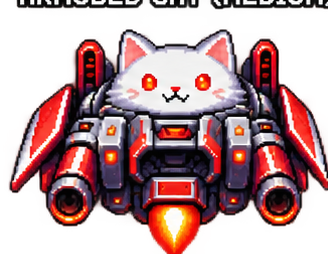
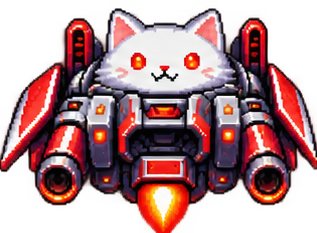
Enhance gameplay with power-ups, giant boss mechanics, and improved shooting logic; remove unused background image.

diff --git a/CatShooters/Form1.cs b/CatShooters/Form1.cs
@@ -9,16 +9,17 @@ namespace CatShooters
 {
     public partial class Form1 : Form
     {
-        // ==================== game Settings ====================
+        // ==================== GAME SETTINGS ====================
         int gameWidth = 450;
         int gameHeight = 700;
         Timer gameTimer = new Timer();
         Random random = new Random();
 
+        // ==================== GAME SCREENS ====================
         enum GameScreen { Menu, Playing, HighScores, GameOver }
         GameScreen currentScreen = GameScreen.Menu;
 
-        // ==================== player and enemy ====================
+        // ==================== PLAYER AND GAME OBJECTS ====================
         HashSet<Keys> pressedKeys = new HashSet<Keys>();
         List<Enemy> enemies = new List<Enemy>();
         List<Bullet> bullets = new List<Bullet>();
@@ -34,6 +35,18 @@ namespace CatShooters
         int shootCooldown = 0;
         int invincibleFrames = 0;
         bool gameOver = false;
+
+        // ==================== POWER-UPS ====================
+        List<PowerUp> powerUps = new List<PowerUp>();
+        int rapidFireFrames = 0;
+        int doubleShotFrames = 0;
+        int shieldFrames = 0;
+
+        // ==================== GIANT BOSS ====================
+        bool bossAppeared = false;
+        GiantBoss boss = null;
+        List<BossBullet> bossBullets = new List<BossBullet>();
+
 
         // ==================== LEADERBOARD DATA ====================
         List<ScoreEntry> highScores = new List<ScoreEntry>();
@@ -131,13 +144,22 @@ namespace CatShooters
             frame++;
             if (shootCooldown > 0) shootCooldown--;
             if (invincibleFrames > 0) invincibleFrames--;
+            if (rapidFireFrames > 0) rapidFireFrames--;
+            if (doubleShotFrames > 0) doubleShotFrames--;
+            if (shieldFrames > 0) shieldFrames--;
 
             MovePlayer();
             Shoot();
+            SpawnGiantBoss();
             SpawnEnemies();
             MoveBullets();
             MoveEnemies();
+            MoveBoss();
+            MoveBossBullets();
+            MovePowerUps();
             CheckCollisions();
+            CheckBossCollisions();
+            CheckPowerUpCollisions();
 
             if (gameOver)
             {
@@ -165,16 +187,26 @@ namespace CatShooters
         // ==================== PLAYER SHOOTING ====================
         private void Shoot()
         {
-            if (pressedKeys.Contains(Keys.Space) && shootCooldown == 0)
+            if (shootCooldown == 0)
             {
-                bullets.Add(new Bullet(playerX + 29, playerY - 12));
-                shootCooldown = 12;
+                if (doubleShotFrames > 0)
+                {
+                    bullets.Add(new Bullet(playerX + 12, playerY - 12));
+                    bullets.Add(new Bullet(playerX + 46, playerY - 12));
+                }
+                else
+                {
+                    bullets.Add(new Bullet(playerX + 29, playerY - 12));
+                }
+
+                shootCooldown = rapidFireFrames > 0 ? 5 : 12;
             }
         }
 
         // ==================== ENEMY SPAWNING ====================
         private void SpawnEnemies()
         {
+            if (boss != null) return; // Focus on the boss fight.
             int spawnRate = Math.Max(20, 48 - score / 150);
             if (frame % spawnRate != 0) return;
 
@@ -237,6 +269,10 @@ namespace CatShooters
                         if (enemy.Health <= 0)
                         {
                             score += enemy.Type == 3 ? 100 : (enemy.Type + 1) * 10;
+                            // Every defeated cat has a chance to drop a power-up.
+                            if (random.Next(100) < 18)
+                                powerUps.Add(new PowerUp(enemy.X + enemy.Size / 2f,
+                                    enemy.Y + enemy.Size / 2f, random.Next(4)));
                             enemies.RemoveAt(i);
                             defeated = true;
                         }
@@ -245,7 +281,8 @@ namespace CatShooters
                 }
                 if (defeated) continue;
 
-                if (invincibleFrames == 0 && enemyBox.IntersectsWith(playerBox))
+                if (invincibleFrames == 0 && shieldFrames == 0 &&
+                    enemyBox.IntersectsWith(playerBox))
                 {
                     enemies.RemoveAt(i);
                     lives--;
@@ -260,6 +297,13 @@ namespace CatShooters
         {
             enemies.Clear();
             bullets.Clear();
+            powerUps.Clear();
+            bossBullets.Clear();
+            boss = null;
+            bossAppeared = false;
+            rapidFireFrames = 0;
+            doubleShotFrames = 0;
+            shieldFrames = 0;
             pressedKeys.Clear();
             playerX = (gameWidth - 64) / 2f;
             playerY = gameHeight - 110;
@@ -279,6 +323,136 @@ namespace CatShooters
             pressedKeys.Clear();
             currentScreen = GameScreen.Menu;
             Invalidate();
+        }
+
+        // ==================== POWER-UPS: SPAWN AND MOVEMENT ====================
+        // Drops: 0 = rapid fire, 1 = double shot, 2 = shield, 3 = extra life.
+        private void MovePowerUps()
+        {
+            for (int i = powerUps.Count - 1; i >= 0; i--)
+            {
+                powerUps[i].Y += 2.5f;
+                if (powerUps[i].Y > gameHeight)
+                    powerUps.RemoveAt(i);
+            }
+        }
+
+        // ==================== POWER-UPS: PICKUP EFFECTS ====================
+        private void CheckPowerUpCollisions()
+        {
+            RectangleF playerBox = new RectangleF(playerX + 8, playerY + 8, 48, 48);
+            for (int i = powerUps.Count - 1; i >= 0; i--)
+            {
+                PowerUp item = powerUps[i];
+                RectangleF itemBox = new RectangleF(item.X - 14, item.Y - 14, 28, 28);
+                if (!playerBox.IntersectsWith(itemBox)) continue;
+
+                if (item.Type == 0) rapidFireFrames = 600;       // ~10 seconds
+                if (item.Type == 1) doubleShotFrames = 600;      // ~10 seconds
+                if (item.Type == 2) shieldFrames = 600;          // ~10 seconds
+                if (item.Type == 3) lives = Math.Min(5, lives + 1);
+                powerUps.RemoveAt(i);
+            }
+        }
+
+        // ==================== GIANT BOSS: SPAWNING ====================
+        // First boss appears at 500 points, once per game.
+        private void SpawnGiantBoss()
+        {
+            if (!bossAppeared && score >= 500)
+            {
+                bossAppeared = true;
+                enemies.Clear();
+                bossBullets.Clear();
+                boss = new GiantBoss(15, 80, gameWidth - 30, 250, 100);
+            }
+        }
+
+        // ==================== GIANT BOSS: MOVEMENT AND ATTACKS ====================
+        private void MoveBoss()
+        {
+            if (boss == null) return;
+
+            // Boss enters from the top and then slides side to side.
+            if (boss.Y < 55)
+                boss.Y += 1.5f;
+            else
+            {
+                boss.X += boss.Direction * 1.1f;
+                if (boss.X < 0 || boss.X + boss.Width > gameWidth)
+                    boss.Direction *= -1;
+            }
+
+            // Shoots three slow projectiles toward the bottom.
+            if (frame % 48 == 0 && boss.Y >= 45)
+            {
+                float center = boss.X + boss.Width / 2f;
+                bossBullets.Add(new BossBullet(center - 8, boss.Y + boss.Height, -2));
+                bossBullets.Add(new BossBullet(center - 8, boss.Y + boss.Height, 0));
+                bossBullets.Add(new BossBullet(center - 8, boss.Y + boss.Height, 2));
+            }
+        }
+
+        // ==================== GIANT BOSS: PROJECTILE MOVEMENT ====================
+        private void MoveBossBullets()
+        {
+            for (int i = bossBullets.Count - 1; i >= 0; i--)
+            {
+                BossBullet shot = bossBullets[i];
+                shot.X += shot.SpeedX;
+                shot.Y += 4;
+                if (shot.Y > gameHeight || shot.X < -30 || shot.X > gameWidth + 30)
+                    bossBullets.RemoveAt(i);
+            }
+        }
+
+        // ==================== GIANT BOSS: COLLISIONS ====================
+        private void CheckBossCollisions()
+        {
+            RectangleF playerBox = new RectangleF(playerX + 12, playerY + 12, 40, 40);
+
+            if (boss != null)
+            {
+                RectangleF bossBox = new RectangleF(
+                    boss.X + 12, boss.Y + 12, boss.Width - 24, boss.Height - 24);
+
+                for (int i = bullets.Count - 1; i >= 0; i--)
+                {
+                    RectangleF shotBox = new RectangleF(bullets[i].X, bullets[i].Y, 7, 22);
+                    if (!shotBox.IntersectsWith(bossBox)) continue;
+                    bullets.RemoveAt(i);
+                    boss.Health--;
+                    if (boss.Health <= 0)
+                    {
+                        score += 1000;
+                        boss = null;
+                        bossBullets.Clear();
+                        break;
+                    }
+                }
+
+                if (boss != null && shieldFrames == 0 && invincibleFrames == 0 &&
+                    playerBox.IntersectsWith(bossBox))
+                {
+                    lives--;
+                    invincibleFrames = 90;
+                    if (lives <= 0) gameOver = true;
+                }
+            }
+
+            for (int i = bossBullets.Count - 1; i >= 0; i--)
+            {
+                BossBullet shot = bossBullets[i];
+                RectangleF shotBox = new RectangleF(shot.X, shot.Y, 16, 16);
+                if (!shotBox.IntersectsWith(playerBox)) continue;
+                bossBullets.RemoveAt(i);
+                if (shieldFrames == 0 && invincibleFrames == 0)
+                {
+                    lives--;
+                    invincibleFrames = 90;
+                    if (lives <= 0) gameOver = true;
+                }
+            }
         }
 
         // ==================== LEADERBOARD: LOAD SCORES ====================
@@ -374,6 +548,40 @@ namespace CatShooters
 
             foreach (Enemy enemy in enemies)
                 g.DrawImage(catImages[enemy.Type], enemy.X, enemy.Y, enemy.Size, enemy.Size);
+
+            // ==================== POWER-UPS ====================
+            using (Font itemFont = new Font("Segoe UI", 11, FontStyle.Bold))
+            {
+                foreach (PowerUp item in powerUps)
+                {
+                    Brush color = item.Type == 0 ? Brushes.Orange :
+                        item.Type == 1 ? Brushes.Cyan :
+                        item.Type == 2 ? Brushes.Lime : Brushes.HotPink;
+                    string letter = item.Type == 0 ? "R" :
+                        item.Type == 1 ? "D" : item.Type == 2 ? "S" : "+";
+                    g.FillEllipse(color, item.X - 16, item.Y - 16, 32, 32);
+                    g.DrawEllipse(Pens.White, item.X - 16, item.Y - 16, 32, 32);
+                    g.DrawString(letter, itemFont, Brushes.Black, item.X - 7, item.Y - 11);
+                }
+            }
+
+            // ==================== GIANT BOSS ====================
+            if (boss != null)
+            {
+                // Stretch existing boss cat sprite to nearly full map width.
+                g.DrawImage(catImages[3], boss.X, boss.Y, boss.Width, boss.Height);
+                g.FillRectangle(Brushes.DarkRed, 30, 62, gameWidth - 60, 14);
+                g.FillRectangle(Brushes.LimeGreen, 30, 62,
+                    (gameWidth - 60) * Math.Max(0, boss.Health) / boss.MaxHealth, 14);
+                using (Font bossFont = new Font("Segoe UI", 12, FontStyle.Bold))
+                    DrawCentered(g, "GIANT CAT BOSS", bossFont, Brushes.White, 35);
+            }
+
+            foreach (BossBullet shot in bossBullets)
+            {
+                g.FillEllipse(Brushes.OrangeRed, shot.X, shot.Y, 16, 16);
+                g.DrawEllipse(Pens.Yellow, shot.X, shot.Y, 16, 16);
+            }
             foreach (Bullet bullet in bullets)
             {
                 g.FillRectangle(Brushes.Cyan, bullet.X, bullet.Y, 7, 22);
@@ -383,15 +591,29 @@ namespace CatShooters
                 (invincibleFrames == 0 || frame % 8 < 4))
                 g.DrawImage(playerImage, playerX, playerY, 64, 64);
 
+            // ==================== HUD ====================
             using (Font hudFont = new Font("Segoe UI", 15, FontStyle.Bold))
                 g.DrawString("SCORE: " + score + "    LIVES: " + lives,
                     hudFont, Brushes.White, 14, 12);
+
+            string effects = "";
+            if (rapidFireFrames > 0) effects += "RAPID ";
+            if (doubleShotFrames > 0) effects += "DOUBLE ";
+            if (shieldFrames > 0) effects += "SHIELD ";
+            if (effects.Length > 0)
+            {
+                using (Font effectFont = new Font("Segoe UI", 11, FontStyle.Bold))
+                    g.DrawString(effects, effectFont, Brushes.Yellow, 14, 43);
+            }
+
+            if (shieldFrames > 0 && currentScreen == GameScreen.Playing)
+                g.DrawEllipse(Pens.Lime, playerX - 8, playerY - 8, 80, 80);
 
             if (currentScreen == GameScreen.GameOver)
                 DrawGameOverMenu(g);
         }
 
-        // ==================== MAIN MENU ====================
+        // ====================  MAIN MENU ====================
         private void DrawMenu(Graphics g)
         {
             using (Font title = new Font("Segoe UI", 30, FontStyle.Bold))
@@ -442,14 +664,14 @@ namespace CatShooters
             }
         }
 
-        // ==================== DRAWING ====================
+        // ==================== CENTERED TEXT ====================
         private void DrawCentered(Graphics g, string text, Font font, Brush brush, float y)
         {
             SizeF size = g.MeasureString(text, font);
             g.DrawString(text, font, brush, (gameWidth - size.Width) / 2, y);
         }
 
-        // ==================== GAME CLASSES ====================
+        // ==================== GAME Object/enemy ====================
         private class Enemy
         {
             public float X, Y, Speed;
@@ -464,6 +686,32 @@ namespace CatShooters
         {
             public float X, Y;
             public Bullet(float x, float y) { X = x; Y = y; }
+        }
+
+        // ==================== POWER-UP CLASS ====================
+        private class PowerUp
+        {
+            public float X, Y;
+            public int Type;
+            public PowerUp(float x, float y, int type)
+            { X = x; Y = y; Type = type; }
+        }
+
+        // ==================== GIANT BOSS CLASS ====================
+        private class GiantBoss
+        {
+            public float X, Y, Width, Height, Direction = 1;
+            public int Health, MaxHealth;
+            public GiantBoss(float x, float y, float width, float height, int health)
+            { X = x; Y = y; Width = width; Height = height; Health = health; MaxHealth = health; }
+        }
+
+        // ==================== BOSS PROJECTILE CLASS ====================
+        private class BossBullet
+        {
+            public float X, Y, SpeedX;
+            public BossBullet(float x, float y, float speedX)
+            { X = x; Y = y; SpeedX = speedX; }
         }
 
         private class ScoreEntry
